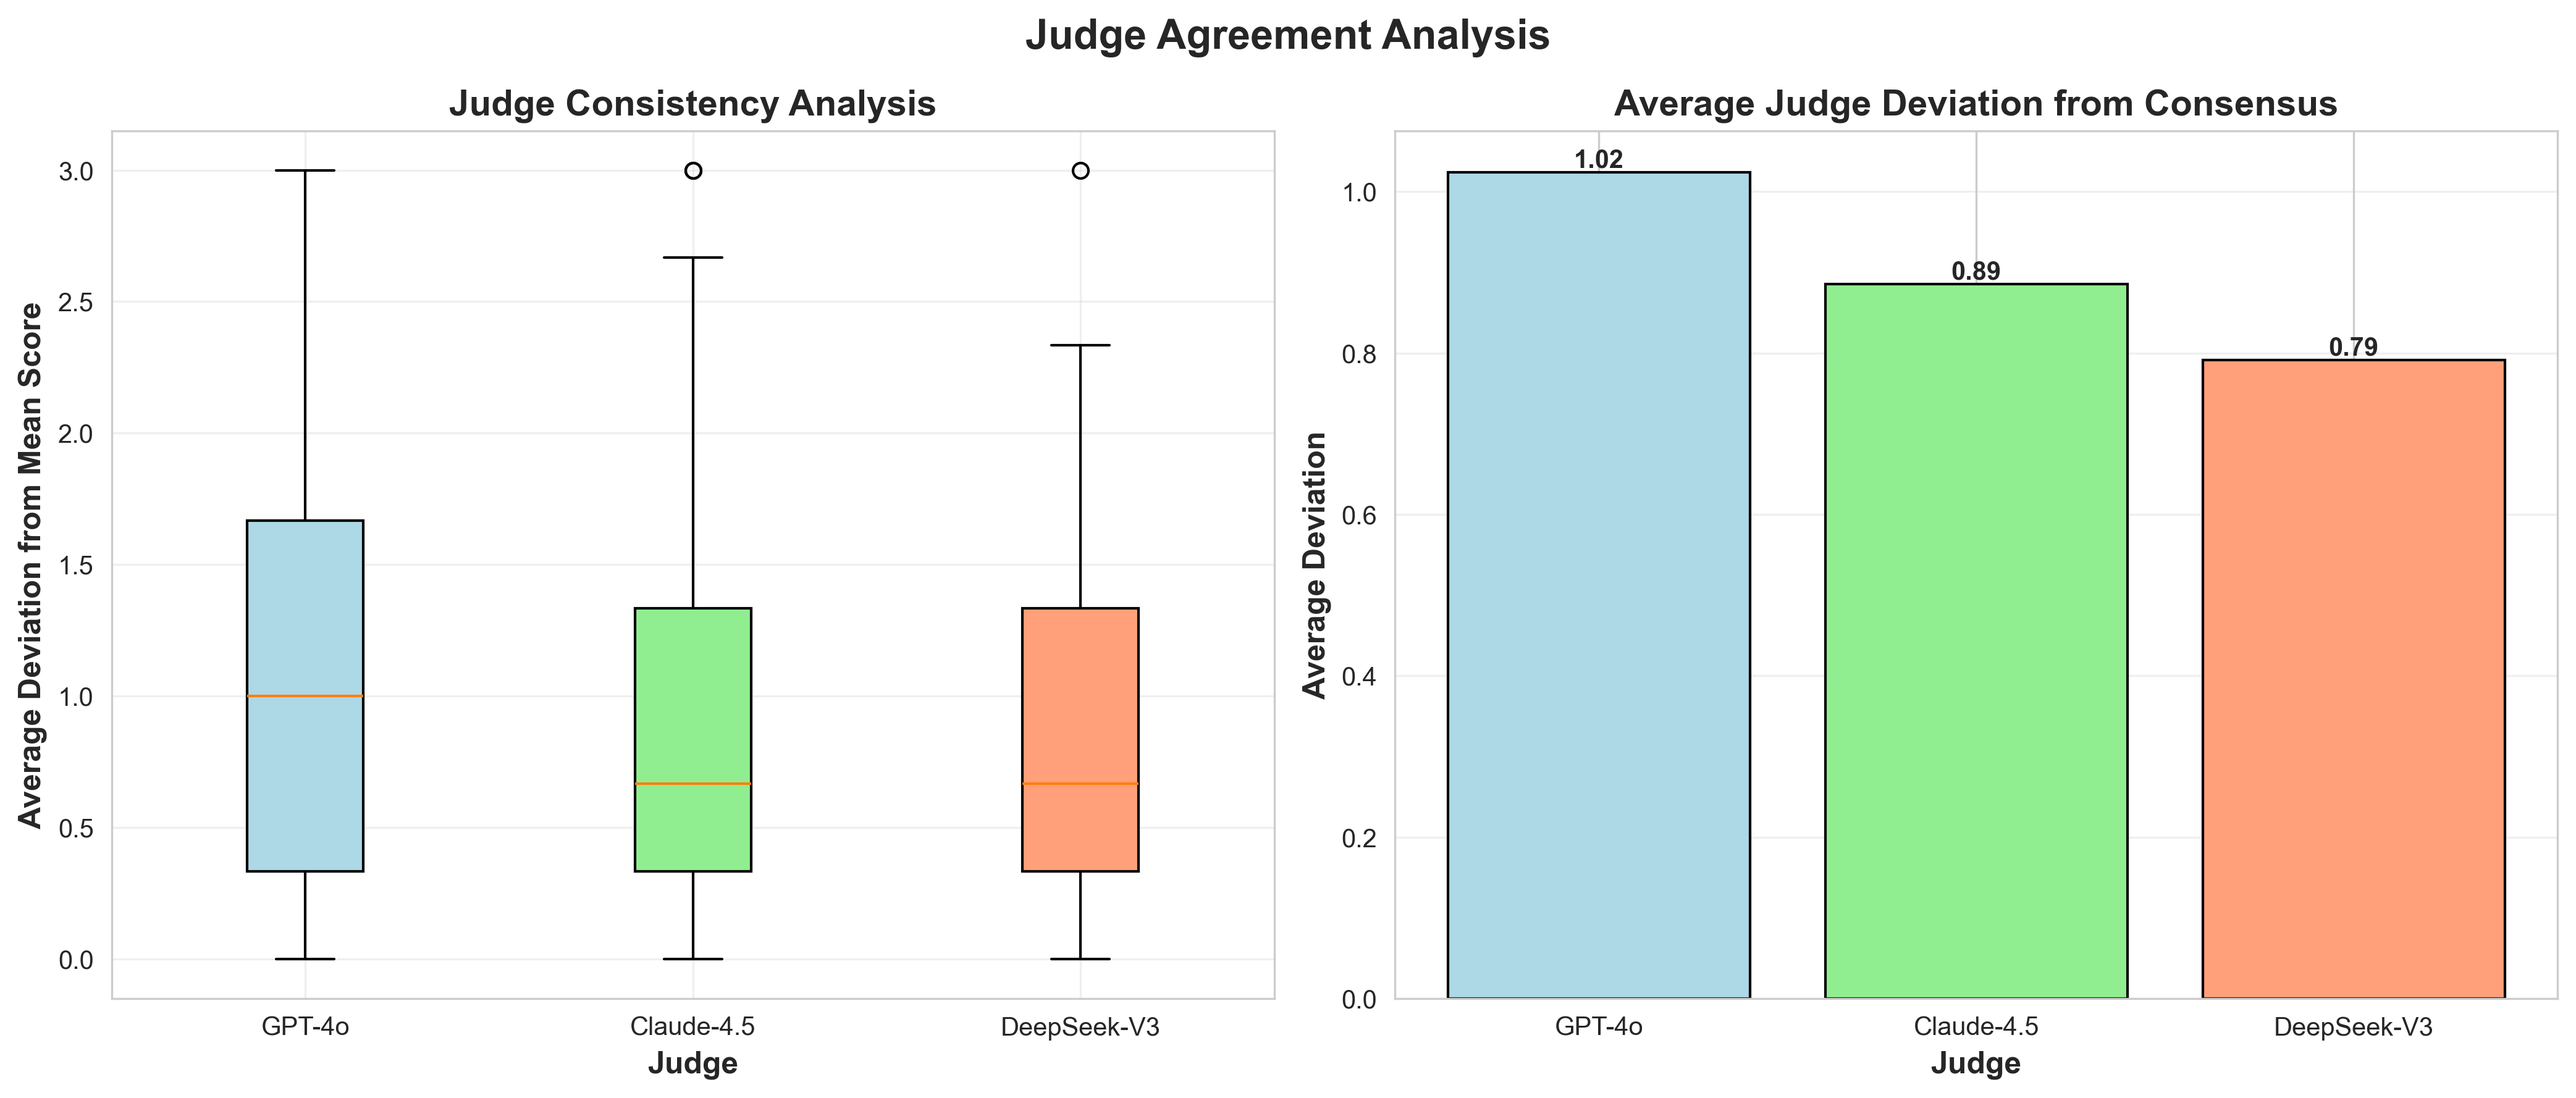
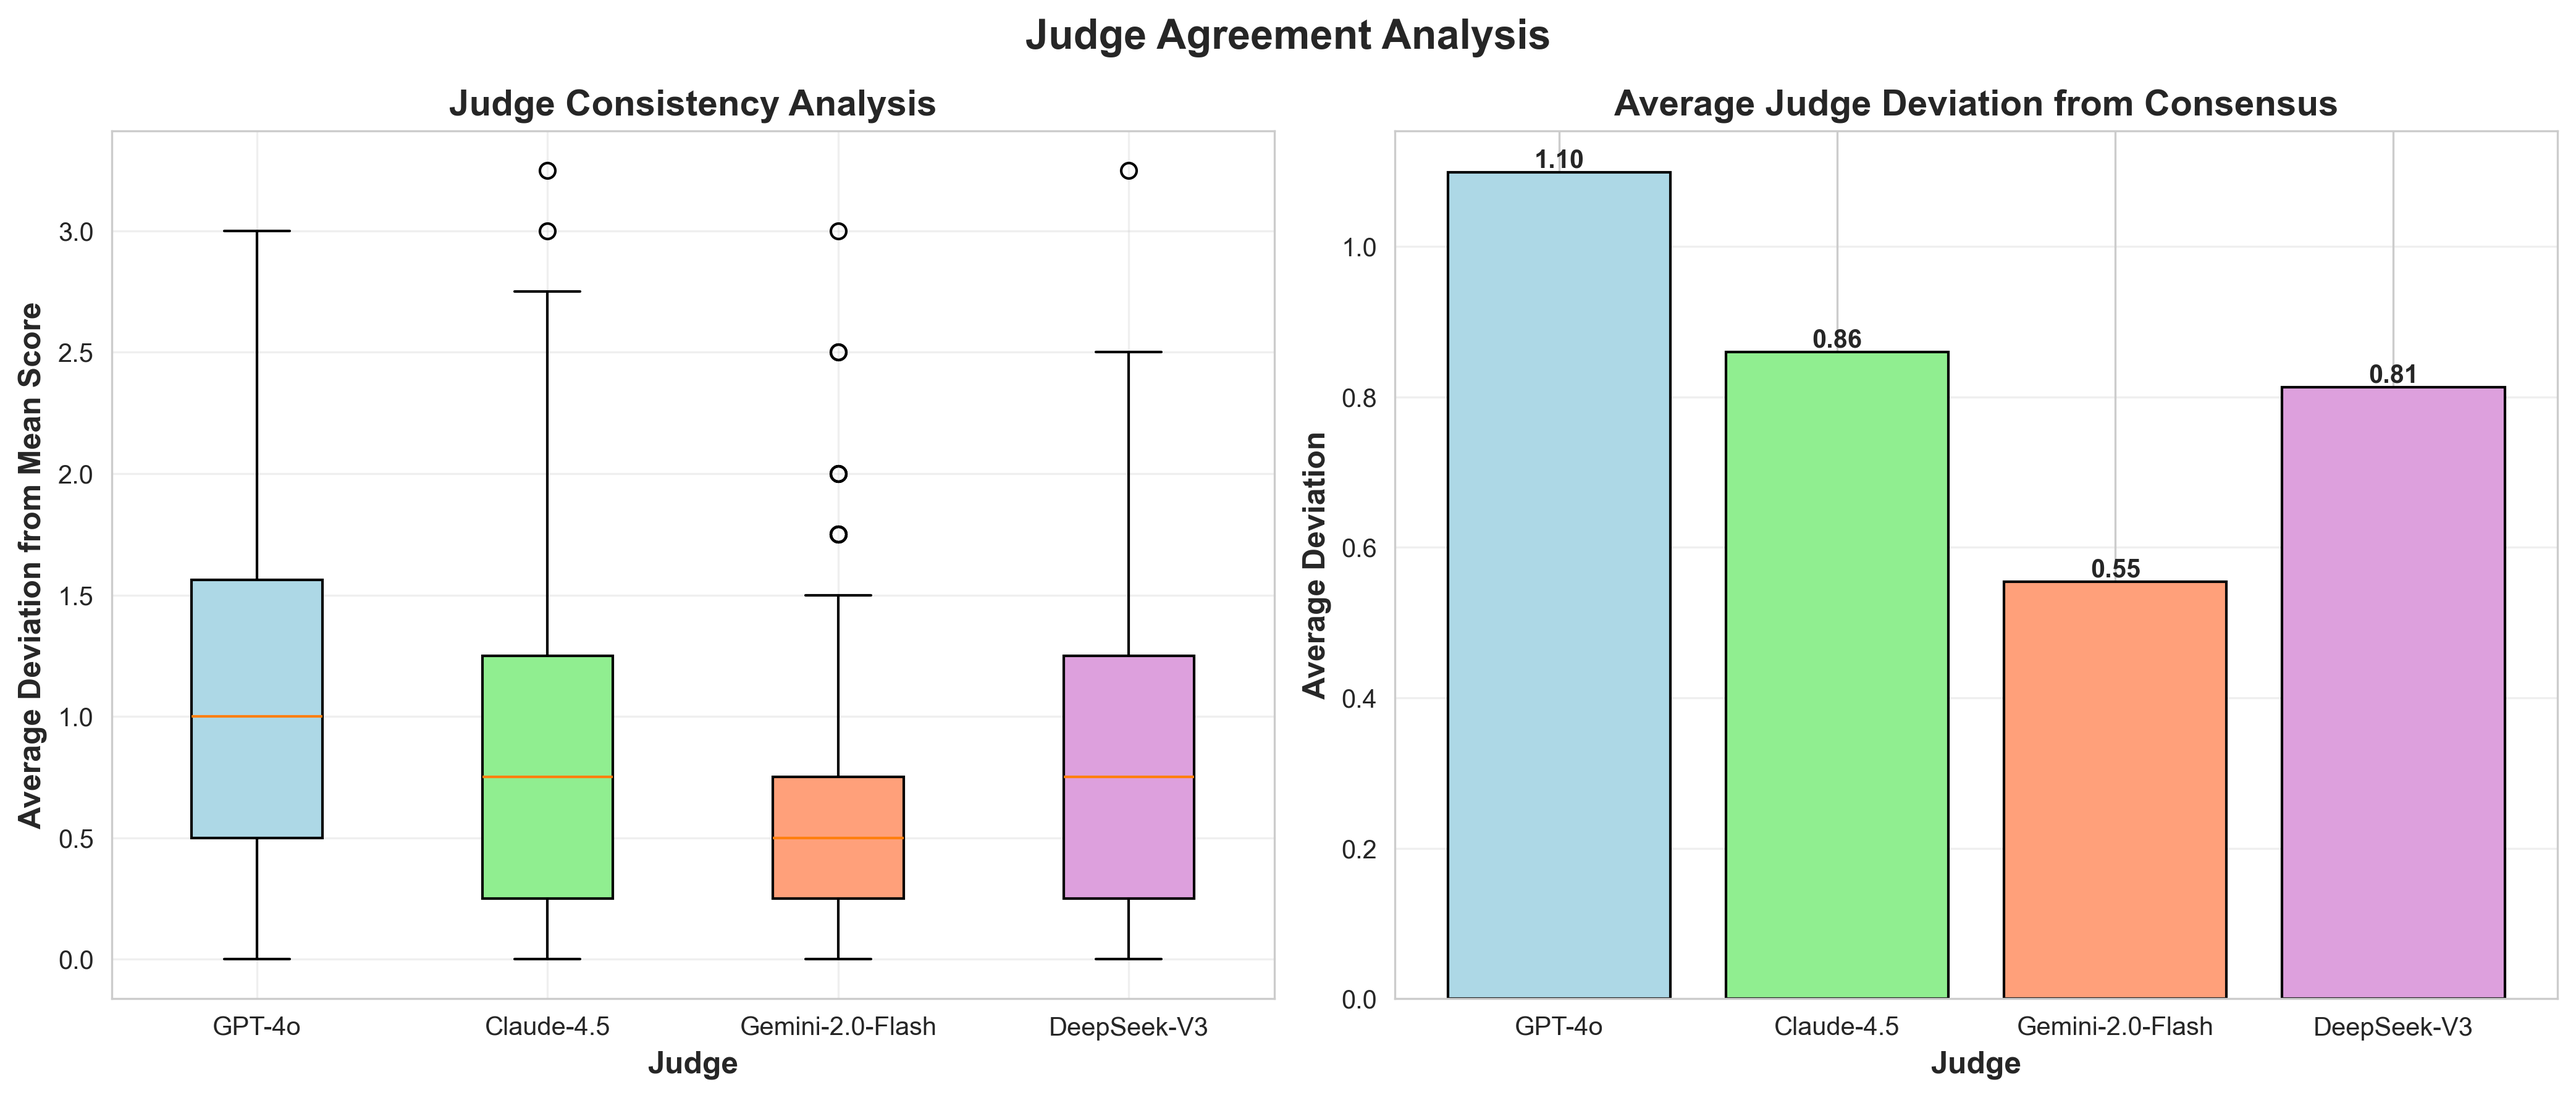
Fix Gemini judge name mismatch in visualizations
- Update visualization script to use Gemini-2.0-Flash (actual judge name)
- Fix judge consistency and heatmap charts to include Gemini
- Add script to re-evaluate Gemma model for fixing errors
- Regenerate visualization charts with all 4 judges properly shown

diff --git a/fix_gemma_evaluation.py b/fix_gemma_evaluation.py
@@ -1,0 +1,166 @@
+#!/usr/bin/env python3
+"""
+Re-run evaluation for Gemma-3-ndtv3 model only and update results
+"""
+
+import json
+import os
+import sys
+from datetime import datetime
+from llm_client import LLMClient
+from rag import RagService
+import logging
+
+logging.basicConfig(level=logging.INFO, format='%(asctime)s - %(levelname)s - %(message)s')
+logger = logging.getLogger(__name__)
+
+def load_existing_results():
+    """Load existing evaluation results"""
+    results_file = "results/evaluation_results.json"
+    if not os.path.exists(results_file):
+        logger.error(f"Results file not found: {results_file}")
+        sys.exit(1)
+    
+    with open(results_file, "r") as f:
+        return json.load(f)
+
+def load_ground_truth():
+    """Load ground truth Q&A pairs"""
+    with open("ground_truth_evaluation.json", "r") as f:
+        data = json.load(f)
+        return [(qa["question"], qa["answer"]) for qa in data]
+
+def test_gemma_model():
+    """Test if Gemma model is working"""
+    logger.info("Testing Gemma-3-ndtv3 model connection...")
+    
+    try:
+        client = LLMClient()
+        test_response = client.get_model_response(
+            "gemma-3-ndtv3", 
+            "Hello, can you respond?",
+            ""
+        )
+        logger.info(f"Test response: {test_response[:100]}...")
+        return True
+    except Exception as e:
+        logger.error(f"Gemma model test failed: {e}")
+        return False
+
+def evaluate_gemma_model():
+    """Re-run evaluation for Gemma model only"""
+    
+    # Load existing results
+    logger.info("Loading existing results...")
+    results = load_existing_results()
+    
+    # Test model first
+    if not test_gemma_model():
+        logger.error("Gemma model is not responding. Please check the endpoint.")
+        return
+    
+    # Initialize clients
+    client = LLMClient()
+    rag = RagService()
+    
+    # Load ground truth
+    qa_pairs = load_ground_truth()
+    logger.info(f"Loaded {len(qa_pairs)} Q&A pairs")
+    
+    # Model configurations to update
+    models_to_update = [
+        ("gemma-3-ndtv3", "gemma-3-ndtv3_finetuned", False),  # Finetuned only
+        ("gemma-3-ndtv3", "gemma-3-ndtv3_finetuned_rag", True)  # Finetuned + RAG
+    ]
+    
+    for model_id, result_key, use_rag in models_to_update:
+        logger.info(f"\nEvaluating {result_key} (RAG: {use_rag})...")
+        
+        if result_key not in results["models"]:
+            logger.warning(f"Model {result_key} not found in results, skipping...")
+            continue
+        
+        # Clear previous error responses
+        results["models"][result_key]["responses"] = []
+        
+        # Evaluate each question
+        for idx, (question, ground_truth) in enumerate(qa_pairs, 1):
+            logger.info(f"  Question {idx}/{len(qa_pairs)}: {question[:50]}...")
+            
+            try:
+                # Get context if using RAG
+                context = ""
+                if use_rag:
+                    context = rag.get_context(question)
+                    logger.debug(f"    Retrieved context: {len(context)} chars")
+                
+                # Get model response
+                start_time = datetime.now()
+                generated_answer = client.get_model_response(model_id, question, context)
+                response_time = (datetime.now() - start_time).total_seconds()
+                
+                # Calculate cosine similarity (placeholder - would need embeddings)
+                cosine_similarity = 0.0  # You can implement actual similarity calculation if needed
+                
+                # Store result
+                response_data = {
+                    "question": question,
+                    "generated_answer": generated_answer,
+                    "ground_truth": ground_truth,
+                    "cosine_similarity": cosine_similarity,
+                    "response_time_seconds": response_time
+                }
+                
+                results["models"][result_key]["responses"].append(response_data)
+                logger.info(f"    ✓ Answer generated ({response_time:.2f}s)")
+                
+            except Exception as e:
+                logger.error(f"    ✗ Error generating answer: {e}")
+                # Store error response
+                response_data = {
+                    "question": question,
+                    "generated_answer": f"Error: {str(e)}",
+                    "ground_truth": ground_truth,
+                    "cosine_similarity": 0.0,
+                    "response_time_seconds": 0.0
+                }
+                results["models"][result_key]["responses"].append(response_data)
+        
+        # Update statistics
+        valid_responses = [r for r in results["models"][result_key]["responses"] 
+                          if not r["generated_answer"].startswith("Error:")]
+        
+        if valid_responses:
+            avg_similarity = sum(r["cosine_similarity"] for r in valid_responses) / len(valid_responses)
+            avg_response_time = sum(r["response_time_seconds"] for r in valid_responses) / len(valid_responses)
+        else:
+            avg_similarity = 0.0
+            avg_response_time = 0.0
+        
+        results["models"][result_key]["average_cosine_similarity"] = avg_similarity
+        results["models"][result_key]["average_response_time_seconds"] = avg_response_time
+        
+        logger.info(f"  Completed {result_key}: {len(valid_responses)}/{len(qa_pairs)} successful")
+    
+    # Update metadata
+    results["metadata"]["last_updated"] = datetime.now().isoformat()
+    results["metadata"]["gemma_rerun"] = True
+    
+    # Save updated results
+    logger.info("\nSaving updated results...")
+    with open("results/evaluation_results.json", "w") as f:
+        json.dump(results, f, indent=2)
+    
+    logger.info("✓ Evaluation results updated successfully!")
+    logger.info(f"  File: results/evaluation_results.json")
+    
+    # Show summary
+    for model_id, result_key, use_rag in models_to_update:
+        if result_key in results["models"]:
+            valid_count = sum(1 for r in results["models"][result_key]["responses"] 
+                            if not r["generated_answer"].startswith("Error:"))
+            total_count = len(results["models"][result_key]["responses"])
+            logger.info(f"  {result_key}: {valid_count}/{total_count} successful responses")
+
+if __name__ == "__main__":
+    evaluate_gemma_model()

diff --git a/visualize_council_results.py b/visualize_council_results.py
@@ -98,7 +98,7 @@ def create_judge_scores_heatmap(results):
                     judge_data[model_name] = {
                         'GPT-4o': [],
                         'Claude-Sonnet-4.5': [],
-                        'Gemini-2.5-Pro': [],
+                        'Gemini-2.0-Flash': [],
                         'DeepSeek-V3': []
                     }
                 
@@ -111,7 +111,7 @@ def create_judge_scores_heatmap(results):
     heatmap_data = []
     for model in sorted(models_seen):
         row_data = []
-        for judge in ['GPT-4o', 'Claude-Sonnet-4.5', 'Gemini-2.5-Pro', 'DeepSeek-V3']:
+        for judge in ['GPT-4o', 'Claude-Sonnet-4.5', 'Gemini-2.0-Flash', 'DeepSeek-V3']:
             if model in judge_data and judge_data[model][judge]:
                 avg_score = np.mean(judge_data[model][judge])
                 row_data.append(avg_score)
@@ -121,7 +121,7 @@ def create_judge_scores_heatmap(results):
     
     # Create DataFrame
     df = pd.DataFrame(heatmap_data, 
-                      columns=['GPT-4o', 'Claude-4.5', 'Gemini-2.5', 'DeepSeek-V3'],
+                      columns=['GPT-4o', 'Claude-4.5', 'Gemini-2.0', 'DeepSeek-V3'],
                       index=sorted(models_seen))
     
     # Create heatmap
@@ -146,7 +146,7 @@ def create_judge_consistency_analysis(results):
     judge_variances = {
         'GPT-4o': [],
         'Claude-Sonnet-4.5': [],
-        'Gemini-2.5-Pro': [],
+        'Gemini-2.0-Flash': [],
         'DeepSeek-V3': []
     }
     
@@ -304,7 +304,7 @@ def create_detailed_summary_table(results):
     judge_stats = {
         'GPT-4o': [],
         'Claude-Sonnet-4.5': [],
-        'Gemini-2.5-Pro': [],
+        'Gemini-2.0-Flash': [],
         'DeepSeek-V3': []
     }
     
